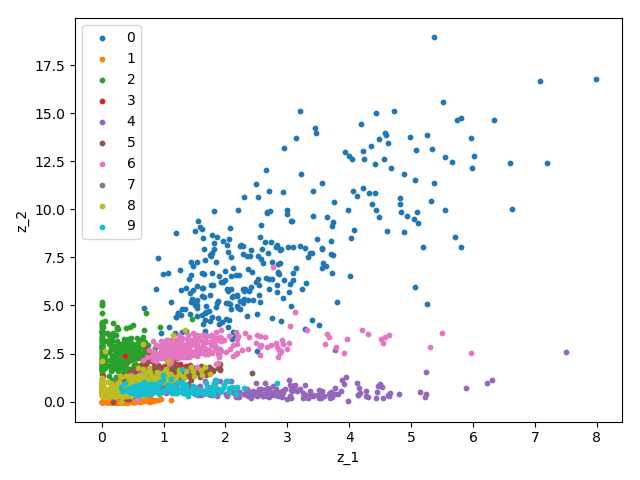
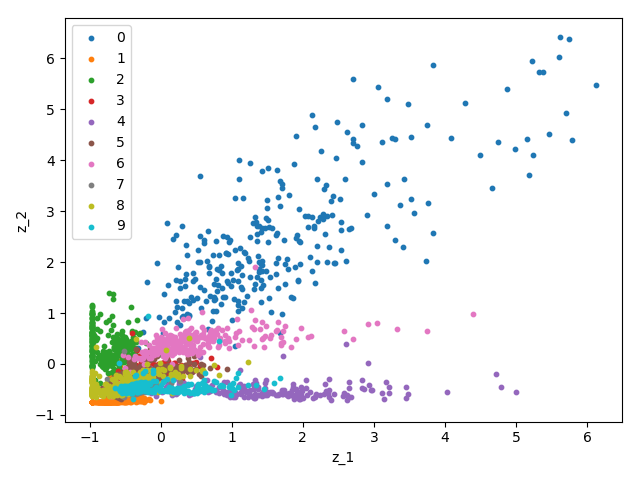
Figures for presentation

diff --git a/presentation_figs.py b/presentation_figs.py
@@ -74,7 +74,7 @@ def conv_autoencoder(data, num_epochs=10, batch_size=32, im_size=28, latent_size
     plt.savefig(fig_path + 'ae_reconstruction_z{}.png'.format(latent_size))
 
 
-def plot_with_images(X, images, fig, ax, image_num=25):
+def plot_with_images(X, images, fig, ax, image_num=25, x_size=None):
     '''
     A plot function for viewing images in their embedded locations. The
     function receives the embedding (X) and the original images (images) and
@@ -90,8 +90,9 @@ def plot_with_images(X, images, fig, ax, image_num=25):
     n, pixels = np.shape(images)
     img_size = int(pixels**0.5)
 
-    # get the size of the embedded images for plotting:
-    x_size = (max(X[:, 0]) - min(X[:, 0])) * 0.08
+    if x_size is None:
+        # get the size of the embedded images for plotting:
+        x_size = (max(X[:, 0]) - min(X[:, 0])) * 0.08
     # y_size = (max(X[:, 1]) - min(X[:, 1])) * 0.08
     y_size = x_size
 
@@ -241,7 +242,11 @@ def MNIST_AE():
     (X, y), _ = mnist.load_data()
     X = X.astype('float32') / 255
 
-    latent = get_encoded(X[..., None], keras.models.load_model('presentation/autoencoder_z2.h5'))
+    ae2 = keras.models.load_model('presentation/autoencoder_z2.h5')
+    latent = get_encoded(X[..., None], ae2)
+    latent = (latent - np.mean(latent, axis=0)[None, :]) / \
+             np.std(latent - np.mean(latent, axis=0)[None, :], axis=0)[None, :]
+
     plt.figure()
     for i in range(10):
         inds = np.where(y == i)[0]
@@ -253,64 +258,51 @@ def MNIST_AE():
     plt.tight_layout()
     plt.savefig(fig_path + 'MNIST_latent_ae.png')
 
-    # fig = plt.figure()
-    # ax = fig.add_subplot(111)
-    # plot_with_images(latent[y == 0], flattened[y == 0], fig, ax, image_num=15)
-    # plot_with_images(latent[y == 1], flattened[y == 1], fig, ax, image_num=15)
-    # plt.xlabel('PC 1')
-    # plt.ylabel('PC 2')
-    # plt.savefig(fig_path + 'MNIST_meaning.png')
-    #
-    # ims = []
-    # names = []
-    #
-    # new_inds = np.random.choice(X.shape[0], 10, replace=False)
-    #
-    # ims2 = pca.inverse_transform(latent).reshape(X.shape)[new_inds]
-    # ims.append(mosaic(ims2, normalize=True, cols=1))
-    # names.append('z=2')
-    #
-    # pca5 = PCA(n_components=5)
-    # lat5 = pca5.fit_transform(flattened)
-    # ims5 = pca5.inverse_transform(lat5).reshape(X.shape)[new_inds]
-    # ims.append(mosaic(ims5, normalize=True, cols=1))
-    # names.append('z=5')
-    #
-    # pca25 = PCA(n_components=25)
-    # lat25 = pca25.fit_transform(flattened)
-    # ims25 = pca25.inverse_transform(lat25).reshape(X.shape)[new_inds]
-    # ims.append(mosaic(ims25, normalize=True, cols=1))
-    # names.append('z=25')
-    #
-    # pca50 = PCA(n_components=50)
-    # lat50 = pca50.fit_transform(flattened)
-    # ims50 = pca50.inverse_transform(lat50).reshape(X.shape)[new_inds]
-    # ims.append(mosaic(ims50, normalize=True, cols=1))
-    # names.append('z=50')
-    #
-    # pca150 = PCA(n_components=150)
-    # lat150 = pca150.fit_transform(flattened)
-    # ims150 = pca150.inverse_transform(lat150).reshape(X.shape)[new_inds]
-    # ims.append(mosaic(ims150, normalize=True, cols=1))
-    # names.append('z=150')
-    #
-    # pca500 = PCA(n_components=500)
-    # lat500 = pca500.fit_transform(flattened)
-    # ims500 = pca500.inverse_transform(lat500).reshape(X.shape)[new_inds]
-    # ims.append(mosaic(ims500, normalize=True, cols=1))
-    # names.append('z=500')
-    #
-    # ims.append(mosaic(X[new_inds], normalize=True, cols=1))
-    # names.append('Original')
-    #
-    # plt.figure()
-    # for i, im in enumerate(ims):
-    #     plt.subplot(1, len(ims), i+1)
-    #     plt.imshow(im, cmap='gray')
-    #     plt.axis('off')
-    #     plt.title(names[i])
-    # plt.tight_layout()
-    # plt.savefig(fig_path + 'reconstruction.png')
+    fig = plt.figure()
+    ax = fig.add_subplot(111)
+    plt.axis('equal')
+    flattened = X.reshape((X.shape[0], np.prod(X.shape[1:])))
+    plot_with_images(latent[y == 6], flattened[y == 6], fig, ax, image_num=15, x_size=.3)
+    plot_with_images(latent[y == 8], flattened[y == 8], fig, ax, image_num=15, x_size=.3)
+    plt.xlabel('z 1')
+    plt.ylabel('z 2')
+    plt.savefig(fig_path + 'MNIST_meaning_ae.png')
+
+    ims = []
+    names = []
+
+    new_inds = np.random.choice(X.shape[0], 10, replace=False)
+
+    ims2 = [im for im in ae2.predict(X[new_inds, ..., None])[:, :, :, 0]]
+    ims.append(mosaic(ims2, normalize=True, cols=1))
+    names.append('z=2')
+
+    ae5 = keras.models.load_model('presentation/autoencoder_z5.h5')
+    ims5 = [im for im in ae5.predict(X[new_inds, ..., None])[:, :, :, 0]]
+    ims.append(mosaic(ims5, normalize=True, cols=1))
+    names.append('z=5')
+
+    ae25 = keras.models.load_model('presentation/autoencoder_z25.h5')
+    ims25 = [im for im in ae25.predict(X[new_inds, ..., None])[:, :, :, 0]]
+    ims.append(mosaic(ims25, normalize=True, cols=1))
+    names.append('z=25')
+
+    ae50 = keras.models.load_model('presentation/autoencoder_z50.h5')
+    ims50 = [im for im in ae50.predict(X[new_inds, ..., None])[:, :, :, 0]]
+    ims.append(mosaic(ims50, normalize=True, cols=1))
+    names.append('z=50')
+
+    ims.append(mosaic(X[new_inds], normalize=True, cols=1))
+    names.append('Original')
+
+    plt.figure()
+    for i, im in enumerate(ims):
+        plt.subplot(1, len(ims), i+1)
+        plt.imshow(im, cmap='gray')
+        plt.axis('off')
+        plt.title(names[i])
+    plt.tight_layout()
+    plt.savefig(fig_path + 'reconstruction_ae.png')
 
 
 if __name__ == '__main__':
@@ -329,7 +321,7 @@ if __name__ == '__main__':
     train_amnt, test_amnt = 60000, 1000
     data = ((X_train[:train_amnt], y_train[:train_amnt]),
             (X_test[:test_amnt], y_test[:test_amnt]))
-    conv_autoencoder(data, num_epochs=20, latent_size=2, batch_size=16)
+    # conv_autoencoder(data, num_epochs=20, latent_size=2, batch_size=16)
     # conv_autoencoder(data, num_epochs=10, latent_size=5, batch_size=32)
     # conv_autoencoder(data, num_epochs=10, latent_size=25, batch_size=32)
     # conv_autoencoder(data, num_epochs=10, latent_size=50, batch_size=32)
